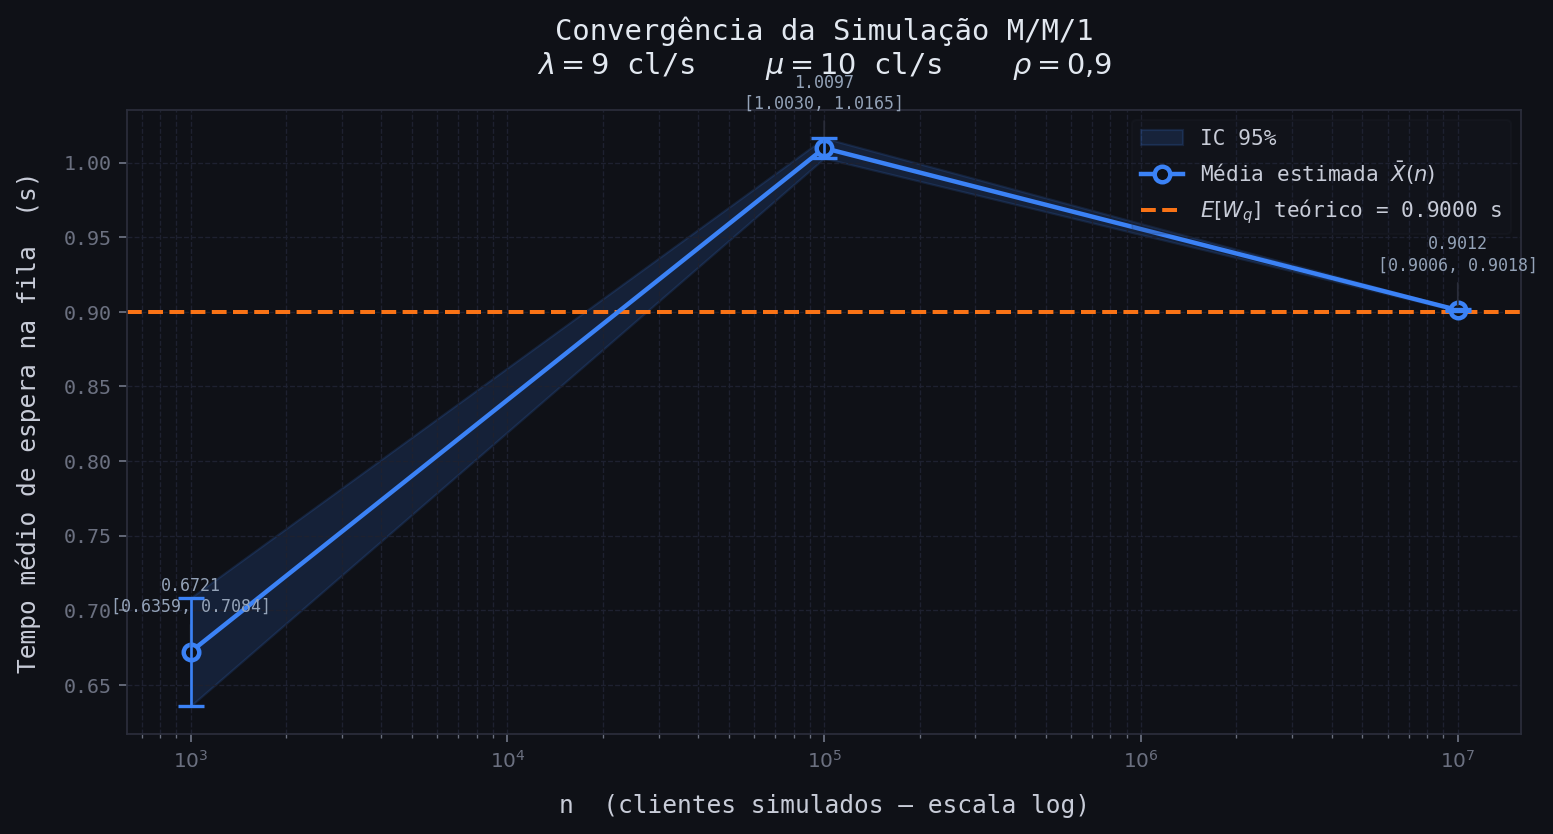
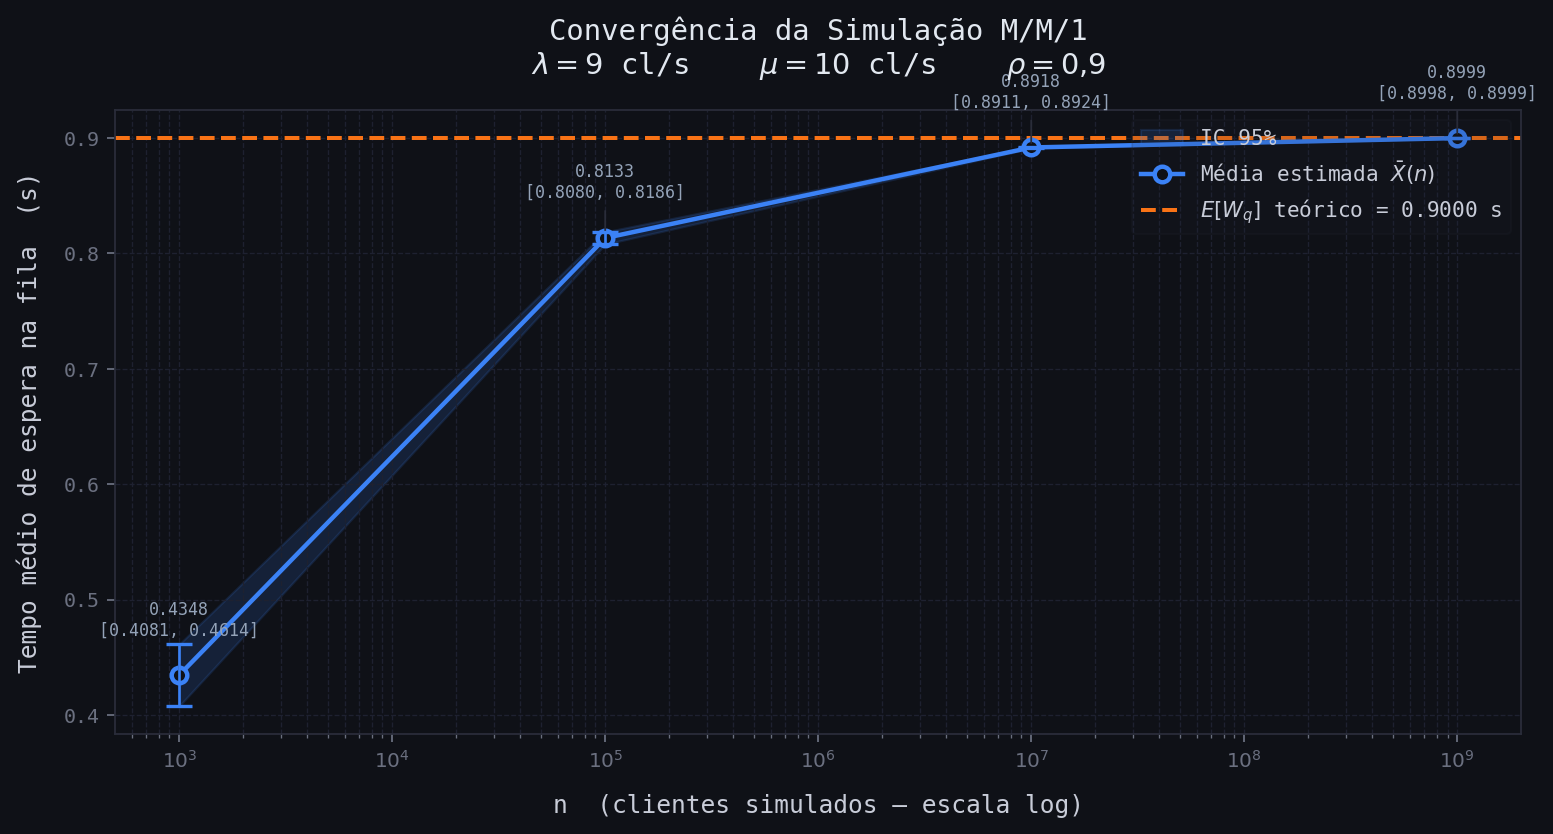
questao 1 corrigida, atualizacao do csv e do grafico

diff --git a/questao1.py b/questao1.py
@@ -2,25 +2,26 @@ import csv
 import math
 import random
 import time
+import os
 
 # parametros gerais
-NUM_CLIENTES = [10**3, 10**5, 10**7, 10**9]   
-TAXA_ENTRADA = 9    #  chegadas por segundo
-TAXA_SERVICO = 10   #  atendimentos por segundo
+NUM_CLIENTES = [10**3, 10**5, 10**7, 10**9]
+TAXA_ENTRADA = 9
+TAXA_SERVICO = 10
+# limite a partir do qual usa Welford (sem lista) para evitar explosão de memória e o processo ser morto
+LIMITE_LISTA = 10**8
+CSV_RESUMO   = os.path.join(os.path.dirname(os.path.abspath(__file__)), "resultados_resumo.csv")
 
-CSV_RESUMO = "resultados_resumo.csv"    # uma linha por rodada com os valores estatísticos
+rho    = TAXA_ENTRADA / TAXA_SERVICO
+Wq_teo = (rho / TAXA_SERVICO) / (1 - rho)
 
-# forma do csv
 with open(CSV_RESUMO, "w", newline="") as f:
-    writer = csv.writer(f)
-    writer.writerow([
-        "n_alvo", "n_amostrado",
-        "lambda", "mu", "rho",
+    csv.writer(f).writerow([
+        "n_alvo", "n_amostrado", "lambda", "mu", "rho",
         "media_estimada", "wq_teorico",
         "desvio_padrao", "ic_inferior", "ic_superior",
         "teorico_no_ic", "duracao_wall_s"
     ])
-
 
 print("─" * 60)
 print("         SIMULAÇÃO M/M/1  –  λ=9  μ=10")
@@ -28,82 +29,89 @@ print("─" * 60)
 
 for n_alvo in NUM_CLIENTES:
 
-    # reinicio das variaveis para fazer a próxima simulação
+    # reinicio das variaveis
     tempo_atual      = 0.0
     fila             = 0
     servidor_ocupado = False
-
-    tempos_espera    = []  
-    fila_chegada     = []   # timestamps de chegada em ordem FIFO
-
+    fila_chegada     = []
     id_chegada       = 1
     id_saida         = 1
-
     proxima_chegada  = random.expovariate(TAXA_ENTRADA)
     proxima_saida    = float('inf')
-
     inicio_wall      = time.time()
 
-    # simulação (n_alvo) eh para cada ordem de grandeza
+    usar_welford = n_alvo > LIMITE_LISTA
+
+    if usar_welford:
+        # welford para evitar explodir a memória ram
+        wf_n    = 0
+        wf_mean = 0.0
+        wf_M2   = 0.0
+        print(f"\n  n = {n_alvo:,} → usando Welford (sem lista, evita OOM)")
+    else:
+        tempos_espera = []
+
+    # loop geral
     while id_saida <= n_alvo:
 
         if proxima_chegada <= proxima_saida:
-            # chegada
             tempo_atual = proxima_chegada
-
             if not servidor_ocupado:
-                tempos_espera.append(0.0)
+                if usar_welford:
+                    wf_n += 1
+                    delta    = 0.0 - wf_mean
+                    wf_mean += delta / wf_n
+                    wf_M2   += delta * (0.0 - wf_mean)
+                else:
+                    tempos_espera.append(0.0)
                 servidor_ocupado = True
                 proxima_saida    = tempo_atual + random.expovariate(TAXA_SERVICO)
             else:
                 fila += 1
                 fila_chegada.append(tempo_atual)
-
             id_chegada     += 1
             proxima_chegada = tempo_atual + random.expovariate(TAXA_ENTRADA)
 
         else:
-            # saida
             tempo_atual = proxima_saida
-
             if fila > 0:
                 fila -= 1
                 t_chegada_proximo = fila_chegada.pop(0)
-                tempo_espera_fila = tempo_atual - t_chegada_proximo
-                tempos_espera.append(tempo_espera_fila)
+                wq = tempo_atual - t_chegada_proximo
+                if usar_welford:
+                    wf_n += 1
+                    delta    = wq - wf_mean
+                    wf_mean += delta / wf_n
+                    wf_M2   += delta * (wq - wf_mean)
+                else:
+                    tempos_espera.append(wq)
                 proxima_saida = tempo_atual + random.expovariate(TAXA_SERVICO)
             else:
                 servidor_ocupado = False
                 proxima_saida    = float('inf')
-
             id_saida += 1
 
     duracao_wall = time.time() - inicio_wall
 
     # estatisticas
-    n         = len(tempos_espera)
-    media     = sum(tempos_espera) / n
+    if usar_welford:
+        n      = wf_n
+        media  = wf_mean
+        desvio = math.sqrt(wf_M2 / (n - 1))
+    else:
+        n         = len(tempos_espera)
+        media     = sum(tempos_espera) / n
+        soma_sq   = sum((x - media) ** 2 for x in tempos_espera)
+        desvio    = math.sqrt(soma_sq / (n - 1))
 
-    soma_sq   = sum((x - media) ** 2 for x in tempos_espera)
-    variancia = soma_sq / (n - 1)
-    desvio    = math.sqrt(variancia)
+    margem = 1.96 * desvio / math.sqrt(n)
+    ic_inf = media - margem
+    ic_sup = media + margem
+    no_ic  = ic_inf <= Wq_teo <= ic_sup
 
-    Z         = 1.96
-    erro_pad  = desvio / math.sqrt(n)
-    margem    = Z * erro_pad
-
-    ic_inf    = media - margem
-    ic_sup    = media + margem
-
-    rho       = TAXA_ENTRADA / TAXA_SERVICO
-    Wq_teo    = (rho / TAXA_SERVICO) / (1 - rho)
-
-    no_ic     = ic_inf <= Wq_teo <= ic_sup
-
-    # gravando no csv
+    # gravando csv
     with open(CSV_RESUMO, "a", newline="") as f:
-        writer = csv.writer(f)
-        writer.writerow([
+        csv.writer(f).writerow([
             n_alvo, n,
             TAXA_ENTRADA, TAXA_SERVICO, round(rho, 6),
             round(media,  8), round(Wq_teo, 8),
@@ -111,7 +119,7 @@ for n_alvo in NUM_CLIENTES:
             no_ic, round(duracao_wall, 3)
         ])
 
-    # impressao no terminal
+    # imprimir no terminal
     print(f"\n{'='*60}")
     print(f"  n = {n_alvo:,}   (wall-clock: {duracao_wall:.1f}s)")
     print(f"{'='*60}")
@@ -123,5 +131,5 @@ for n_alvo in NUM_CLIENTES:
     print(f"  Teórico no IC               : {'✓ Sim' if no_ic else '✗ Não'}")
 
 print("\n" + "─" * 60)
-print(f"  CSV gerado: {CSV_RESUMO}  — resumo estatístico por rodada")
+print(f"  CSV gerado: {CSV_RESUMO}")
 print("─" * 60)